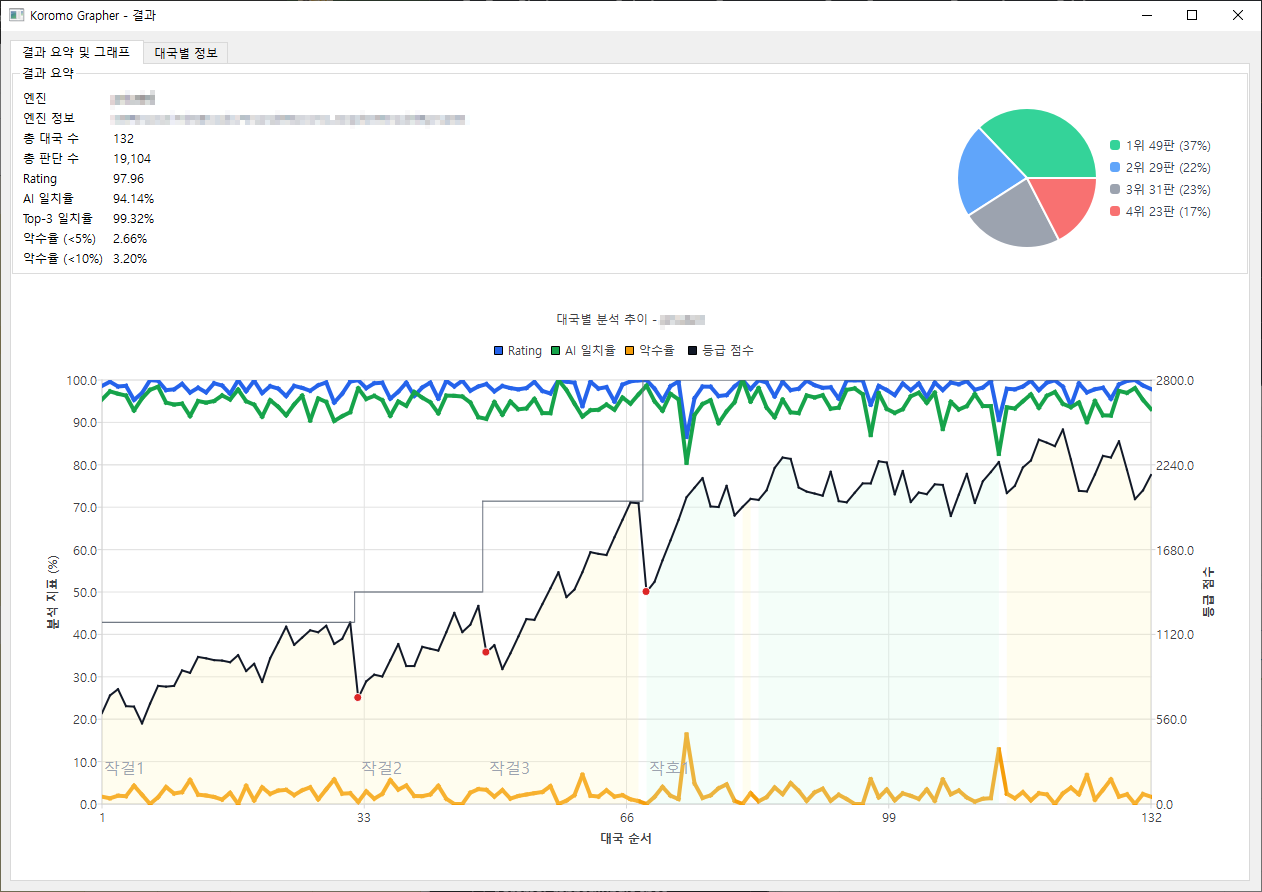
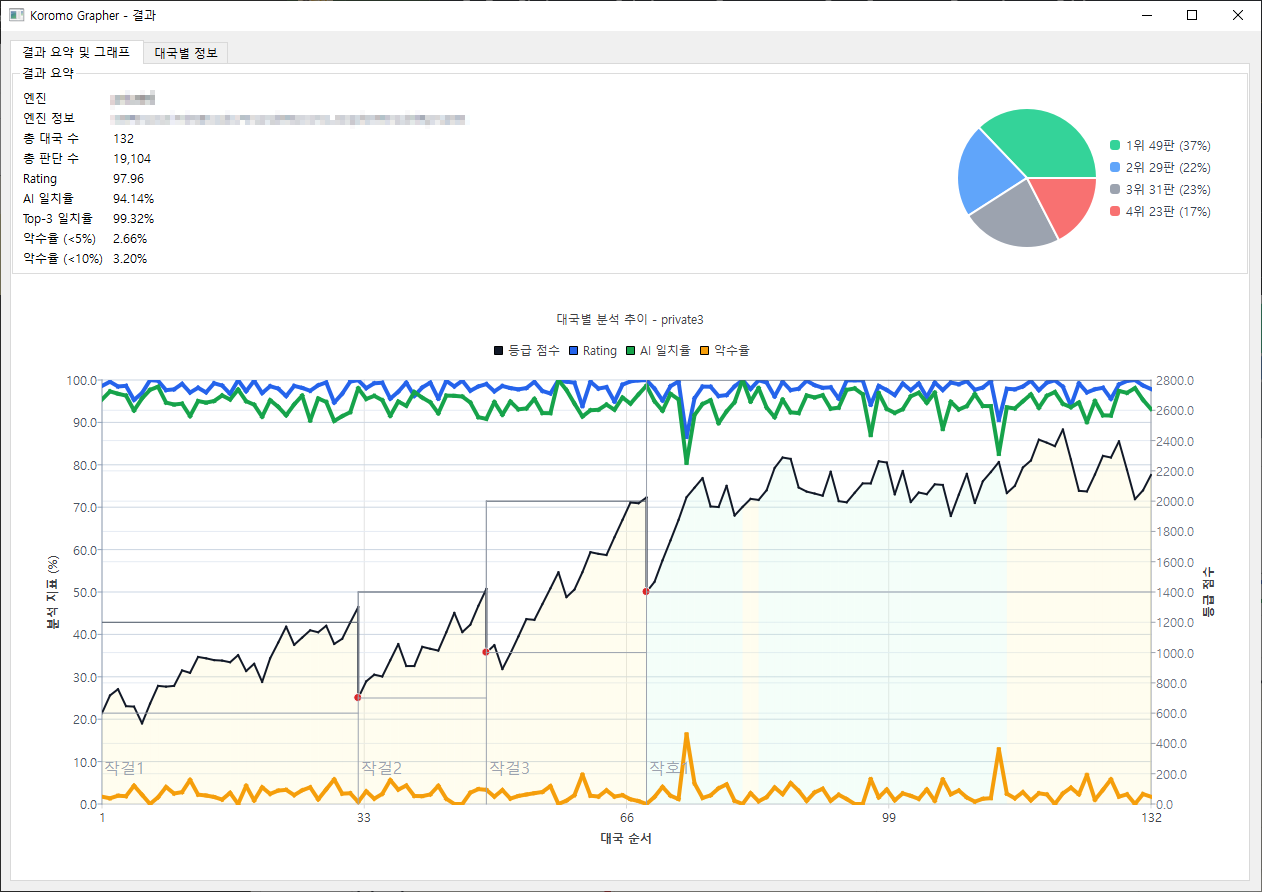
graph fix

diff --git a/koromo_review_gui/ui.py b/koromo_review_gui/ui.py
@@ -1660,9 +1660,33 @@ class ResultWindow(QMainWindow):
         change_series.setBorderColor(QColor("#ffffff"))
         change_series.setMarkerSize(8.0)
 
+        def _rank_boundary_value(
+            left_level_id: int | None,
+            right_level_id: int | None,
+            left_score: int | None,
+            left_delta: int | None,
+        ) -> float | None:
+            if left_level_id is None or right_level_id is None or left_level_id == right_level_id:
+                return None
+            raw = float(left_score + left_delta) if left_score is not None and left_delta is not None else None
+            if right_level_id > left_level_id:
+                cap = level_score_cap(left_level_id)
+                if cap is None:
+                    return raw
+                if raw is None:
+                    return float(cap)
+                return max(float(cap), raw)
+
+            if raw is None:
+                return 0.0
+            return min(0.0, raw)
+
         previous_level_id = None
+        previous_score_value: int | None = None
+        previous_score_delta: int | None = None
         score_values: list[int] = []
         score_caps: list[int] = []
+        boundary_values: list[int] = []
         for idx, game in enumerate(games, start=1):
             rating_series.append(idx, game.rating)
             top1_series.append(idx, game.top1_agreement * 100.0)
@@ -1673,15 +1697,23 @@ class ResultWindow(QMainWindow):
                 cap = level_score_cap(game.player_level_id)
                 if cap is not None:
                     score_caps.append(cap)
+                boundary_value = _rank_boundary_value(
+                    previous_level_id,
+                    game.player_level_id,
+                    previous_score_value,
+                    previous_score_delta,
+                )
+                if boundary_value is not None:
+                    score_series.append(idx, boundary_value)
+                    boundary_values.append(int(boundary_value))
                 score_series.append(idx, score_value)
                 if previous_level_id is not None and game.player_level_id != previous_level_id:
                     change_series.append(idx, score_value)
                 previous_level_id = game.player_level_id
+                previous_score_value = score_value
+                previous_score_delta = game.player_level_delta
 
         chart = QChart()
-        chart.addSeries(rating_series)
-        chart.addSeries(top1_series)
-        chart.addSeries(bad_series)
         if score_series.count() > 0:
             # 등급 점수 아래 채움은 "대국 i -> 대국 i+1" 구간을
             # 해당 i번째 대국의 탁 색상으로 연결해서 보여준다.
@@ -1698,10 +1730,17 @@ class ResultWindow(QMainWindow):
 
                 x1 = float(segment_index + 1)
                 x2 = float(segment_index + 2)
+                right_boundary_value = _rank_boundary_value(
+                    left_game.player_level_id,
+                    right_game.player_level_id,
+                    int(left_score),
+                    left_game.player_level_delta,
+                )
+                right_y = float(right_score) if right_boundary_value is None else right_boundary_value
                 upper = QLineSeries()
                 lower = QLineSeries()
                 upper.append(x1, float(left_score))
-                upper.append(x2, float(right_score))
+                upper.append(x2, right_y)
                 lower.append(x1, 0.0)
                 lower.append(x2, 0.0)
 
@@ -1733,6 +1772,9 @@ class ResultWindow(QMainWindow):
             chart.addSeries(score_series)
         if change_series.count() > 0:
             chart.addSeries(change_series)
+        chart.addSeries(rating_series)
+        chart.addSeries(top1_series)
+        chart.addSeries(bad_series)
         chart.setTitle(f"대국별 분석 추이 - {engine_name}")
 
         axis_x = QValueAxis()
@@ -1744,13 +1786,21 @@ class ResultWindow(QMainWindow):
         axis_y.setTitleText("분석 지표 (%)")
         axis_y.setRange(0, 100)
         axis_y.setTickCount(11)
+        axis_y.setGridLineColor(QColor("#cbd5e1"))
+        axis_y.setLinePenColor(QColor("#94a3b8"))
+        axis_y.setLabelsColor(QColor("#4b5563"))
 
         axis_y_right = None
         if score_values:
             axis_y_right = QValueAxis()
             axis_y_right.setTitleText("등급 점수")
-            axis_y_right.setRange(0, max(score_values + score_caps))
-            axis_y_right.setTickCount(6)
+            axis_y_right.setRange(0, max(score_values + score_caps + boundary_values))
+            axis_y_right.setTickType(QValueAxis.TickType.TicksDynamic)
+            axis_y_right.setTickAnchor(0.0)
+            axis_y_right.setTickInterval(200.0)
+            axis_y_right.setGridLineColor(QColor("#e5ebf3"))
+            axis_y_right.setLinePenColor(QColor("#9ca3af"))
+            axis_y_right.setLabelsColor(QColor("#6b7280"))
 
         chart.addAxis(axis_x, Qt.AlignmentFlag.AlignBottom)
         chart.addAxis(axis_y, Qt.AlignmentFlag.AlignLeft)
@@ -1800,6 +1850,18 @@ class ResultWindow(QMainWindow):
                 cap_series.attachAxis(axis_x)
                 cap_series.attachAxis(axis_y_right)
 
+                mid_series = QLineSeries()
+                mid_series.append(start_x, float(cap) / 2.0)
+                mid_series.append(end_x, float(cap) / 2.0)
+                mid_pen = QPen(QColor("#9ca3af"))
+                mid_pen.setWidth(1)
+                mid_series.setPen(mid_pen)
+                mid_series.setName("")
+                self._chart_band_series.append(mid_series)
+                chart.addSeries(mid_series)
+                mid_series.attachAxis(axis_x)
+                mid_series.attachAxis(axis_y_right)
+
             for boundary_index in range(1, len(rank_segments)):
                 previous_segment = rank_segments[boundary_index - 1]
                 next_segment = rank_segments[boundary_index]
@@ -1826,7 +1888,6 @@ class ResultWindow(QMainWindow):
                 boundary_series.append(boundary_x, float(boundary_top))
                 boundary_pen = QPen(QColor("#9ca3af"))
                 boundary_pen.setWidth(1)
-                boundary_pen.setStyle(Qt.PenStyle.DotLine)
                 boundary_series.setPen(boundary_pen)
                 boundary_series.setName("")
                 self._chart_band_series.append(boundary_series)
